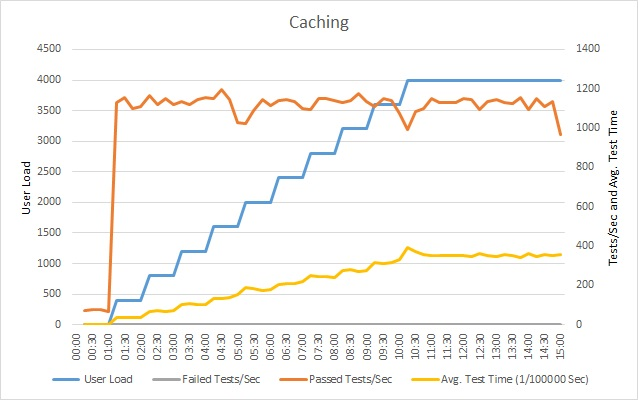
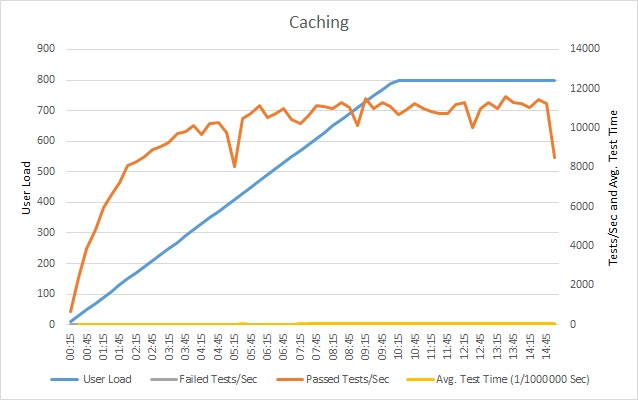
Updated with new graphs and amended narrative

diff --git a/NoCache/docs/NoCaching.md b/NoCache/docs/NoCaching.md
@@ -91,7 +91,7 @@ Note that there may be some restrictions on the environment in which you can per
 
 Performing load-testing in a test environment can help to highlight any problems. Load-testing should simulate the pattern of data access observed in the production environment using realistic workloads. You can use a tool such as [Visual Studio Online][VisualStudioOnline] to run load tests and examine the results. 
 
-The following graph was generated from load-testing the CachingDemo sample application without using caching. The load-test simulates a step load of up to 4000 users in 400 user increments performing a typical series of operations against the system. Notice that the capacity of the system as measured by the number of successful tests performed each seconds reaches a plateau, and additional requests are slowed as a result - the average test time steadily increases to just over 5 milliseconds with the work-load:
+The following graph was generated from load-testing the CachingDemo sample application without using caching. The load-test simulates a step load of up to 800 users performing a typical series of operations against the system. Notice that the capacity of the system as measured by the number of successful tests performed each seconds reaches a plateau, and additional requests are slowed as a result - the average test time steadily increases with the work-load (the response time levels off once the user load remains constant towards the end of the test):
 
 ![Performance load-test results for the uncached scenario][Performance-Load-Test-Results-Uncached]
 
@@ -220,13 +220,13 @@ You should consider the following points concerning caching:
 ## Consequences of the solution
 Implementing caching may lead to a lack of immediate consistency; applications may not always read the most recent version of a data item. Applications should be designed around the principle of eventual consistency and tolerate being presented with old data. Applying time-based eviction policies to the cache can help to prevent cached data from becoming too stale, but any such policy must be balanced against the expected volatility of the data; data that is highly static and read often can reside in the cache for longer periods than dynamic information that may become stale quickly and which should be evicted more frequently.
 
-To determine the efficacy of any caching strategy, you should repeat load-testing after incorporating a cache and compare the results to those generated before the cache was added. The following results show the graph generated by load testing the CachingDemo sample solution with caching enabled. The volume of successful tests still reaches a plateau, but the rate is approximately significantly higher than that of the uncached solution. Similarly, although the average test time still increases with load, the maximum response time is less than that of the previous tests (approximately 3.5 milliseconds):
+To determine the efficacy of any caching strategy, you should repeat load-testing after incorporating a cache and compare the results to those generated before the cache was added. The following results show the graph generated by load testing the CachingDemo sample solution with caching enabled. The volume of successful tests still reaches a plateau, but at a higher user load. The request rate at this load is significantly higher than that of the uncached solution. Similarly, although the average test time still increases with load, the maximum response time is approximately 1/20th that of the previous tests (0.05 ms against 1ms):
 
 ![Performance load-test results for the cached scenario][Performance-Load-Test-Results-Cached]
 
 ----------
 
-**Note:** Lack of caching sometimes acts as a natural regulator of throughput, and once this restriction is relaxed the increasing volume of traffic that a web site can support by using caching might result in the system being overwhelmed. This is typified by the system returning a large number of HTTP 403 (Forbidden) and HTTP 503 (Service Unavailable) messages, indicating that the web site hosting the service was temporarily unavailable. **This is a common concern; increasing the potential throughput of the application can require that the infrastructure on which the application runs be scaled to handle the additional load.**
+**Note:** Lack of caching sometimes acts as a natural regulator of throughput, and once this restriction is relaxed the increasing volume of traffic that a web site can support by using caching might result in the system being overwhelmed. This is typified by the system returning a large number of HTTP 403 (Forbidden) and HTTP 503 (Service Unavailable) messages, indicating that the web site hosting the service was temporarily unavailable. This is a common concern; increasing the potential throughput of the application can require that the infrastructure on which the application runs be scaled to handle the additional load.
 
 ----------
 
